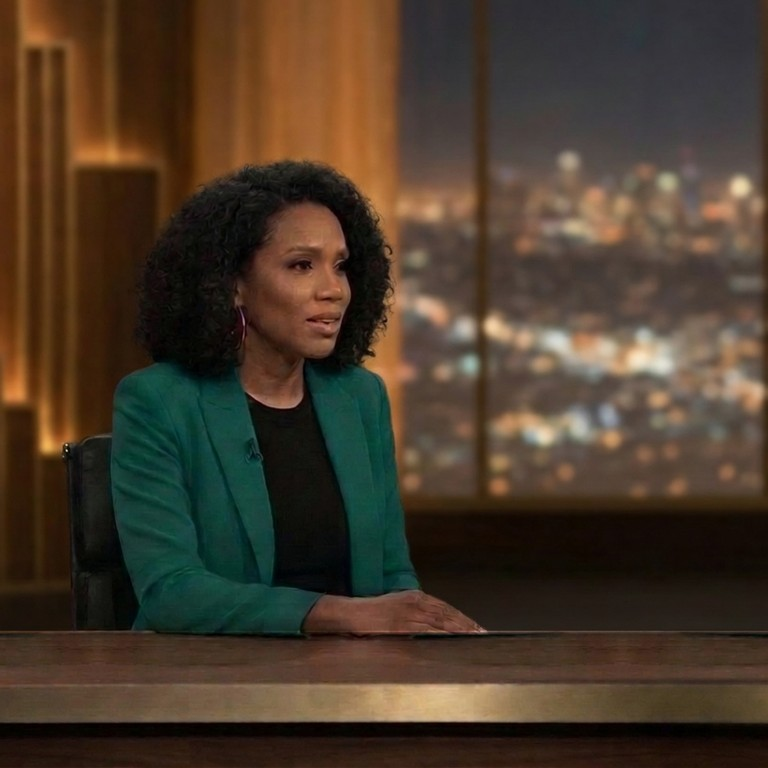
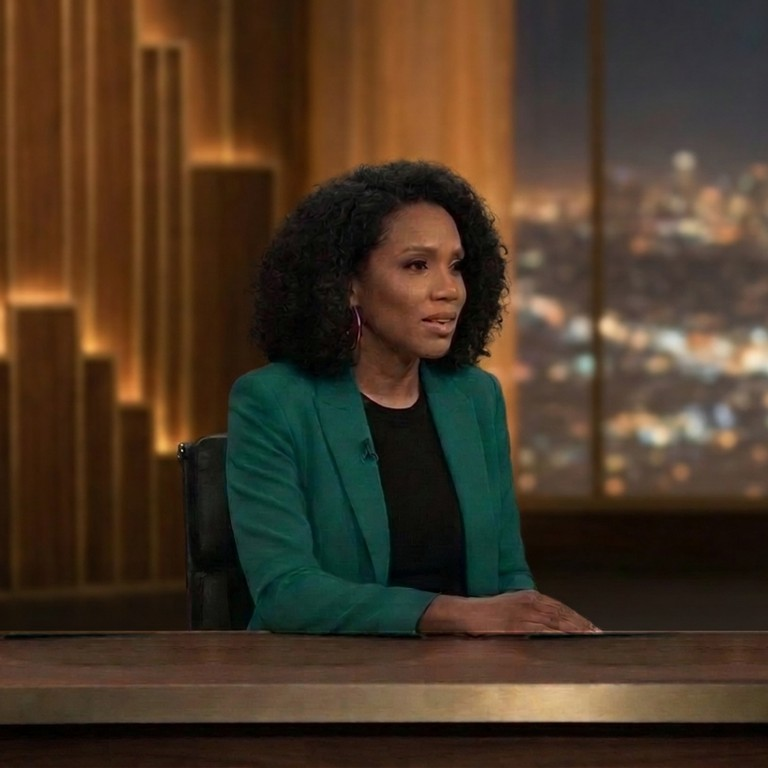
fix: Jada sits further right, a third of the way across the frame
She was too far left. Her portrait is re-cropped so she sits about a third of
the way in, and her render's left edge is feathered into the panels so no seam
shows.

Claude-Session: https://claude.ai/code/session_01GSFhiV3Ep34znZMVb7cbqT

diff --git a/apps/tv-show-live/page/gilded.css b/apps/tv-show-live/page/gilded.css
@@ -229,7 +229,7 @@ button { font: inherit; }
 .gr-set { position: absolute; inset: 0; transform-origin: 50% 50%; }
 /* Cuts, not zooms: a studio camera is either on its shot or not. */
 /* Jada from the chest up; the TV's edge stays in frame (a video off screen is not sent). */
-.gr-program.is-host .gr-set { transform: scale(1.5); transform-origin: 8% 35%; }
+.gr-program.is-host .gr-set { transform: scale(1.5); transform-origin: 25% 35%; }
 .gr-program.is-tv .gr-set { transform: scale(1.9); transform-origin: 96.95% 52.22%; }
 .gr-wall { position: absolute; inset: 0; width: 100%; height: 100%; object-fit: fill; }
 
@@ -241,7 +241,7 @@ button { font: inherit; }
    that, she is back to her old size and place, the frame cropping its top and bottom. */
 .gr-host { position: absolute; left: 6.51%; top: -2.04%; width: 56.82%; height: 101.76%; z-index: 2;
   /* Gone before its last 6%: the renderer draws a dark rim there, which showed as a dark band. */
-  -webkit-mask-image: linear-gradient(to right, #000 80%, transparent 94%); mask-image: linear-gradient(to right, #000 80%, transparent 94%); }
+  -webkit-mask-image: linear-gradient(to right, transparent, #000 5.5%, #000 80%, transparent 94%); mask-image: linear-gradient(to right, transparent, #000 5.5%, #000 80%, transparent 94%); }
 /* The desk's front, from just below her hands: cut from the set, laid over her render. */
 .gr-desk { position: absolute; left: 0; top: 86%; width: 100%; height: 14%; z-index: 3; pointer-events: none; }
 .ll-face { position: absolute; inset: 0; overflow: hidden; background: transparent; }
@@ -283,7 +283,7 @@ button { font: inherit; }
 .gr-program.is-trailer .gr-host { left: auto; top: auto; right: 2%; bottom: 10.5%; width: 14%; height: auto; aspect-ratio: 1; z-index: 16;
   -webkit-mask-image: none; mask-image: none; opacity: 1; overflow: hidden; border-radius: .7cqw; background: #0c0a07;
   box-shadow: 0 .8cqw 2.4cqw rgba(0, 0, 0, .7), 0 0 0 .15cqw rgba(216, 177, 92, .7); }
-.gr-program.is-trailer .gr-host .ll-face { transform: scale(1.85); transform-origin: 43% 40%; }
+.gr-program.is-trailer .gr-host .ll-face { transform: scale(1.85); transform-origin: 52% 40%; }
 .gr-program.is-trailer .gr-host::after { content: attr(data-label); position: absolute; left: 0; right: 0; bottom: 0; z-index: 2; padding: .25cqw .5cqw;
   font: 600 .7cqw/1.2 var(--nc-display); letter-spacing: .08em; text-transform: uppercase; color: var(--nc-ink); background: linear-gradient(0deg, rgba(10, 8, 5, .85), transparent); }
 
